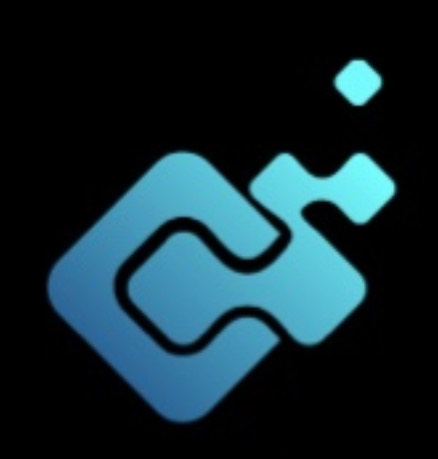
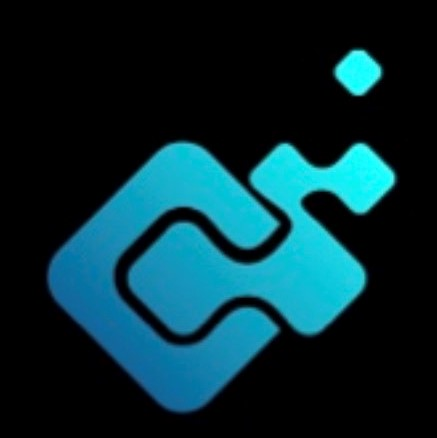
navbar looks better and new header color

Changed region(s): [[0.0892, 0.2968, 0.9222, 0.9498], [0.7437, 0.089, 0.8924, 0.2374]]

diff --git a/src/components/MainHeader.js b/src/components/MainHeader.js
@@ -31,12 +31,12 @@ export default function MainHeader({ text, minitext }) {
         zIndex: 1,
       }}
     >
-      <View style={{ backgroundColor: "#1260de", height: 110 }}>
+      <View style={{ backgroundColor: "#60b8d6", height: 110 }}>
         <View
           style={{
             paddingTop: 50,
             paddingBottom: 8,
-            backgroundColor: "#3d9aba",
+            backgroundColor: "#60b8d6",
             width: "100%",
             display: "flex",
             flexDirection: "row",
@@ -103,7 +103,7 @@ export default function MainHeader({ text, minitext }) {
           viewBox="0 0 1440 320"
         >
           <Path
-            fill="#3d9aba"
+            fill="#60b8d6"
             fill-opacity="1"
             d="M0,288L40,250.7C80,213,160,139,240,138.7C320,139,400,213,480,213.3C560,213,640,139,720,138.7C800,139,880,213,960,218.7C1040,224,1120,160,1200,138.7C1280,117,1360,139,1400,149.3L1440,160L1440,0L1400,0C1360,0,1280,0,1200,0C1120,0,1040,0,960,0C880,0,800,0,720,0C640,0,560,0,480,0C400,0,320,0,240,0C160,0,80,0,40,0L0,0Z"
           ></Path>

diff --git a/src/components/navbar.js b/src/components/navbar.js
@@ -32,7 +32,7 @@ const styles = StyleSheet.create({
     justifyContent: "space-between",
     alignItems: "center",
     backgroundColor: "#ddd",
-    paddingTop: 10,
+    paddingTop: 5,
     paddingBottom: 25,
     paddingHorizontal: 0,
     backgroundColor: "white",
@@ -42,12 +42,13 @@ const styles = StyleSheet.create({
     alignItems: "center",
   },
   buttonText: {
-    fontSize: 12,
+    fontSize: 10,
     fontWeight: "bold",
     color: "#333",
   },
   image: {
-    width: 32,
-    height: 32,
+    marginBottom: 3,
+    width: 27,
+    height: 27,
   },
 });
